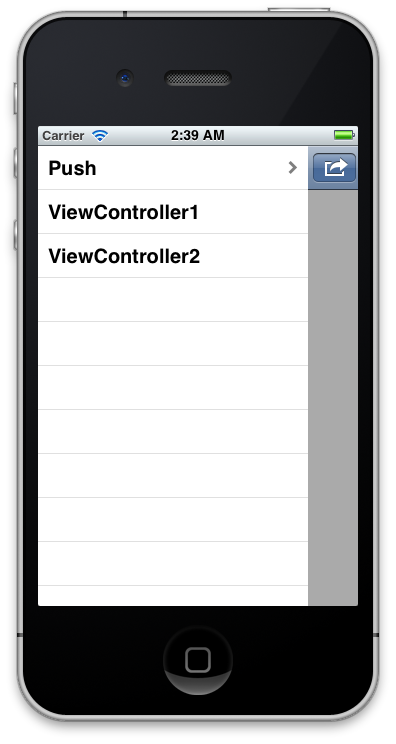
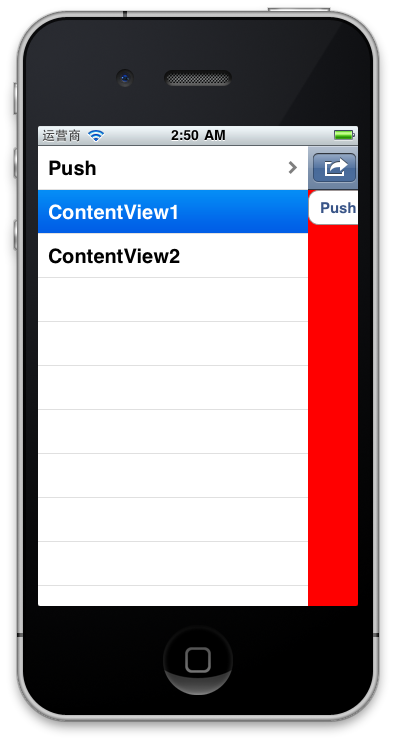
- Add configurable animation styles and mechanism of setting up a content view properly

diff --git a/JTRevealSidebar/JTNavigationView.m b/JTRevealSidebar/JTNavigationView.m
@@ -17,11 +17,18 @@
 
 @implementation JTNavigationView
 
-- (id)initWithFrame:(CGRect)frame
-{
+@synthesize rootView = _rootView;
+
+- (id)initWithFrame:(CGRect)frame {
+    self = [self initWithFrame:frame animationStyle:JTNavigationViewAnimationStylePush];
+    return self;
+}
+
+- (id)initWithFrame:(CGRect)frame animationStyle:(JTNavigationViewAnimationStyle)style {
     self = [super initWithFrame:frame];
     if (self) {
         _views = [[NSMutableArray alloc] init];
+        _animationStyle = style;
 
         // We will need to have 
         _navigationBar = [[JTNavigationBar alloc] initWithFrame:CGRectMake(0, 0, CGRectGetWidth(frame), DEFAULT_NAVIGATION_BAR_HEIGHT)];
@@ -34,7 +41,7 @@
         _navigationBar.delegate = self;
         _navigationItem = item;
         [item release];
-
+        
         _navigationViewFlags.isNavigationBarHidden = NO;
     }
     return self;
@@ -60,7 +67,9 @@
 
     view.transform = CGAffineTransformMakeTranslation(0, 0);
     if (existView) {
-        existView.transform = CGAffineTransformMakeTranslation(-CGRectGetWidth(self.frame), 0);
+        if (_animationStyle == JTNavigationViewAnimationStylePush) {
+            existView.transform = CGAffineTransformMakeTranslation(-CGRectGetWidth(self.frame), 0);
+        }
     }
     
     UINavigationItem *item = [[UINavigationItem alloc] initWithTitle:view.title];
@@ -89,7 +98,9 @@
 
     view.transform = CGAffineTransformMakeTranslation(CGRectGetWidth(self.frame), 0);
     if (previousView) {
-        previousView.transform = CGAffineTransformMakeTranslation(0, 0);
+        if (_animationStyle == JTNavigationViewAnimationStylePush) {
+            previousView.transform = CGAffineTransformMakeTranslation(0, 0);
+        }
     }
 
     if (animated) {
@@ -112,9 +123,26 @@
     return _views;
 }
 
+- (void)setRootView:(UIView *)rootView {
+    [_rootView removeFromSuperview], [_rootView autorelease], _rootView = nil;
+    _rootView = [rootView retain];
+
+    for (UIView *view in _views) {
+        [self popViewAnimated:NO];
+    }
+    [_navigationBar setItems:[NSArray arrayWithObject:_navigationItem]];
+
+    _navigationItem.title = _rootView.title;
+    // Insert root view to be the bottom most index.
+    [self insertSubview:_rootView atIndex:0];
+}
+
+// Auto stretching the views to fit the visible bounds
 - (void)layoutSubviews {
     int yOffset = _navigationViewFlags.isNavigationBarHidden ? 0 : DEFAULT_NAVIGATION_BAR_HEIGHT;
-    ((UIView *)[_views lastObject]).frame = CGRectMake(0, yOffset, CGRectGetWidth(self.frame), CGRectGetHeight(self.frame) - yOffset);
+    CGRect bounds = CGRectMake(0, yOffset, CGRectGetWidth(self.frame), CGRectGetHeight(self.frame) - yOffset);
+    _rootView.frame = bounds;
+    ((UIView *)[_views lastObject]).frame = bounds;
 }
 
 // Navigation Bar

diff --git a/JTRevealSidebarDemo/ViewController.m b/JTRevealSidebarDemo/ViewController.m
@@ -86,6 +86,14 @@ typedef enum {
     return YES;
 }
 
+- (void)pushContentView:(id)sender {
+    UIView *subview = [[UIView alloc] initWithFrame:CGRectZero];
+    subview.backgroundColor = [UIColor blueColor];
+    subview.title           = @"Pushed Subview";
+    [_revealView.contentView pushView:subview animated:YES];
+    [subview release];
+}
+
 #pragma mark Helper
 
 - (void)simulateDidSucceedFetchingDatasource:(JTTableViewDatasource *)datasource {
@@ -100,8 +108,8 @@ typedef enum {
                                                       sourceInfo:
              [NSDictionary dictionaryWithObjectsAndKeys:@"push", @"url", nil]], @"datasource", nil]],
           
-          [JTTableViewCellModalSimpleType modalWithTitle:@"ViewController1" type:JTTableRowTypePushContentView],
-          [JTTableViewCellModalSimpleType modalWithTitle:@"ViewController2" type:JTTableRowTypePushContentView],
+          [JTTableViewCellModalSimpleType modalWithTitle:@"ContentView1" type:JTTableRowTypePushContentView],
+          [JTTableViewCellModalSimpleType modalWithTitle:@"ContentView2" type:JTTableRowTypePushContentView],
 
           nil]
          ];
@@ -193,8 +201,16 @@ typedef enum {
             {
                 UIView *view = [[UIView alloc] init];
                 view.backgroundColor = [UIColor redColor];
+
+                // Create a push button to demonstrate pushing subviews in the main content view
+                UIButton *pushButton = [UIButton buttonWithType:UIButtonTypeRoundedRect];
+                [pushButton setTitle:@"Push" forState:UIControlStateNormal];
+                [pushButton addTarget:self action:@selector(pushContentView:) forControlEvents:UIControlEventTouchUpInside];
+                [pushButton sizeToFit];
+                [view addSubview:pushButton];
+                
                 view.title = [(JTTableViewCellModalSimpleType *)object title];
-                [_revealView.contentView pushView:view animated:YES];
+                [_revealView.contentView setRootView:view];
                 [view release];
                 [_revealView revealSidebar:NO];
             }

diff --git a/JTRevealSidebar/JTNavigationView.h b/JTRevealSidebar/JTNavigationView.h
@@ -10,16 +10,27 @@
 #import <UIKit/UIKit.h>
 #import "JTNavigationBar.h"
 
+typedef enum {
+    JTNavigationViewAnimationStylePush,
+    JTNavigationViewAnimationStyleCoverUp,
+} JTNavigationViewAnimationStyle;
+
 @interface JTNavigationView : UIView <JTNavigationBarDelegate> {
     NSMutableArray *_views;
     JTNavigationBar *_navigationBar;
     UINavigationItem *_navigationItem;
+    UIView           *_rootView;
     
+    JTNavigationViewAnimationStyle _animationStyle;
     struct {
         unsigned int isNavigationBarHidden:1;
     } _navigationViewFlags;
 }
 
+// Setting the root view will pop all views in the stack
+@property (nonatomic, retain) UIView *rootView;
+
+- (id)initWithFrame:(CGRect)frame animationStyle:(JTNavigationViewAnimationStyle)style;
 
 - (void)pushView:(UIView *)view animated:(BOOL)animated;
 - (UIView *)popViewAnimated:(BOOL)animated;

diff --git a/JTRevealSidebar/JTRevealSidebarView.m b/JTRevealSidebar/JTRevealSidebarView.m
@@ -70,7 +70,7 @@
         revealView.sidebarView = sidebarView;
     }
     
-    JTNavigationView *contentView = [[[JTNavigationView alloc] initWithFrame:(CGRect){CGPointZero, frame.size}] autorelease];
+    JTNavigationView *contentView = [[[JTNavigationView alloc] initWithFrame:(CGRect){CGPointZero, frame.size} animationStyle:JTNavigationViewAnimationStyleCoverUp] autorelease];
     {
         contentView.autoresizingMask = UIViewAutoresizingFlexibleHeight | UIViewAutoresizingFlexibleWidth;
         contentView.backgroundColor = [UIColor lightGrayColor];

diff --git a/README.md b/README.md
@@ -3,12 +3,15 @@ JTRevealSidebar
 
 An iOS objective-c library template for mimic the sidebar layout of the new Facebook app.
 It's still in very early development state and doesn't have any functions, so please see it as demonstrating purpose.
+Caution! Use this carefully since a single view controller pattern may ultimately lead to a very large class manipulating all view transition logic in a single file.
+Please let us know any tips to split out and reduce unmaintainable circumstances.
 
 Demo
 ----
 ![Not revealed](https://github.com/mystcolor/JTRevealSidebarDemo/raw/master/demo1.png)
 ![Revealed](https://github.com/mystcolor/JTRevealSidebarDemo/raw/master/demo2.png)
-![Pushed ViewController1](https://github.com/mystcolor/JTRevealSidebarDemo/raw/master/demo3.png)
+![Pushed ContentView1](https://github.com/mystcolor/JTRevealSidebarDemo/raw/master/demo3.png)
+![Pushed Subview](https://github.com/mystcolor/JTRevealSidebarDemo/raw/master/demo4.png)
 
 Motivation
 ----------
@@ -26,7 +29,7 @@ Include all files in JTRevealSidebar into your project.
 
 ### Setting up with JTRevealSidebarView
 
-Just #import the JTRevealSidebarView.h header, and construct a JTRevealSidebarView, and add it to your viewController.
+Just #import the JTRevealSidebarView.h header, and construct a JTRevealSidebarView, and add it to your viewController, (any subclass of UIViewController).
 
     #import "JTRevealSidebarView.h"
     #import "JTNavigationView.h"
@@ -67,9 +70,28 @@ Just #import the JTRevealSidebarView.h header, and construct a JTRevealSidebarVi
     [_revealView.sidebarView popViewAnimated:YES];
 
 
+### Interacting on the mainview (JTNavigationView)
+
+    // Setting the root view on the content view
+    UIView *yourView = ...;
+    // Setting appropriate title and navigationItems just like you'd did on a UINavigationController
+    yourView.title = ...;
+    yourView.navigationItem.rightBarButtonItem = ...;
+    _revealView.contentView.rootView = yourView;
+
+    // Pushing a view on the contentView
+    [_revealView.contentView pushView:view animated:YES];
+    
+    // Popping a view from the contentView
+    [_revealView.contentView popViewAnimated:YES];
+
 
 Update Logs
 -----------
+
+- Added JTNavigationViewAnimationStyle to mimic two different animation styles. (Default "Push" style in sidebar, and "CoverUp" style in content view)
+- Added rootView property on JTNavigationView
+- Added title/navigationItem associative property by category to let JTNavigationView to push appropriate navigation bar details
 
 - Added JTTableViewDatasource
 - Added push/pop mechanism on main content view
